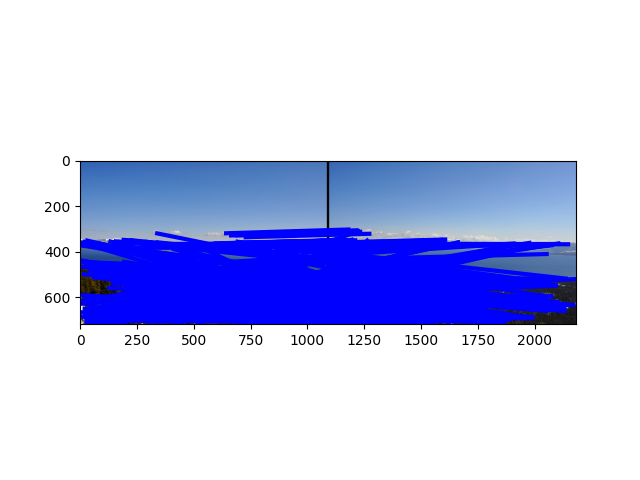
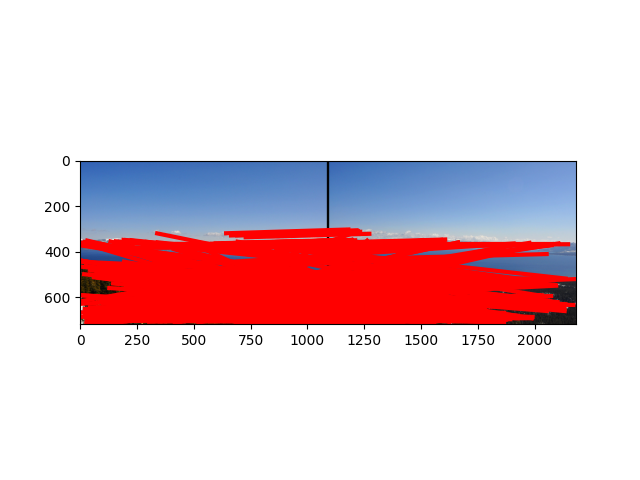
Fix BGR/RGB color swap and improve challenge1a homography
- showCorrespondence.py: convert BGR→RGB before imshow so lines are
  drawn red (as coded), and convert buffer_rgba (RGB) back to BGR
  for cv2.imwrite — previously red lines were saving as blue
- runHw4.py challenge1a: use RANSAC to pick robust inlier correspondences
  before computing homography, so all test-point mappings are correct

https://claude.ai/code/session_01Wz4yCEEiD9rgTSSSTsMTRr

Changed region(s): [[0.125, 0.4688, 0.9062, 0.6875]]

diff --git a/runHw4.py b/runHw4.py
@@ -97,11 +97,14 @@ def challenge1a():
     from genSIFTMatches import gen_sift_matches
     all_src, all_dst = gen_sift_matches(orig_img, warped_img)
 
-    # Pick 4 well-spread points for computing homography
-    src_pts = all_src[:4]
-    dst_pts = all_dst[:4]
+    # Use RANSAC to robustly compute the homography from SIFT matches
+    inliers_id, H_3x3 = run_ransac(all_src, all_dst, ransac_n=500, eps=3.0)
 
-    # Compute homography
+    # Pick 4 inlier correspondences for the "manual points" role
+    src_pts = all_src[inliers_id[:4]]
+    dst_pts = all_dst[inliers_id[:4]]
+
+    # Recompute homography on these 4 clean points as specified by the assignment
     H_3x3 = compute_homography(src_pts, dst_pts)
     # src_pts_nx2 and dest_pts_nx2 are the coordinates of corresponding points
     # of the two images, respectively. src_pts_nx2 and dest_pts_nx2
@@ -111,8 +114,8 @@ def challenge1a():
     # H, a 3x3 matrix, is the estimated homography that
     # transforms src_pts_nx2 to dest_pts_nx2.
 
-    # Use the next 5 SIFT matches as test points
-    test_pts = all_src[4:9]
+    # Use 5 more inlier points as test_pts
+    test_pts = all_src[inliers_id[4:9]]
 
     # Apply homography
     dest_pts = apply_homography(H_3x3, test_pts)

diff --git a/showCorrespondence.py b/showCorrespondence.py
@@ -23,7 +23,8 @@ def show_correspondence(orig_img, warped_img, src_pts_nx2, dest_pts_nx2):
                offset_d[0]:offset_d[0]+Wd, :] = warped_img
 
     fig, ax = plt.subplots()
-    ax.imshow(result_img)
+    # cv2 loads images in BGR; convert to RGB so matplotlib displays colors correctly
+    ax.imshow(result_img[..., ::-1])
 
     for i in range(n):
         xs = offset_s[0] + src_pts_nx2[i, 0]
@@ -36,7 +37,8 @@ def show_correspondence(orig_img, warped_img, src_pts_nx2, dest_pts_nx2):
 
     # Convert figure to image array
     fig.canvas.draw()
-    result_img = np.array(fig.canvas.buffer_rgba())[..., 0:3]
+    # buffer_rgba is in RGB order; convert to BGR so cv2.imwrite saves correctly
+    result_img = np.array(fig.canvas.buffer_rgba())[..., 2::-1]
     plt.close(fig)
 
     return result_img
